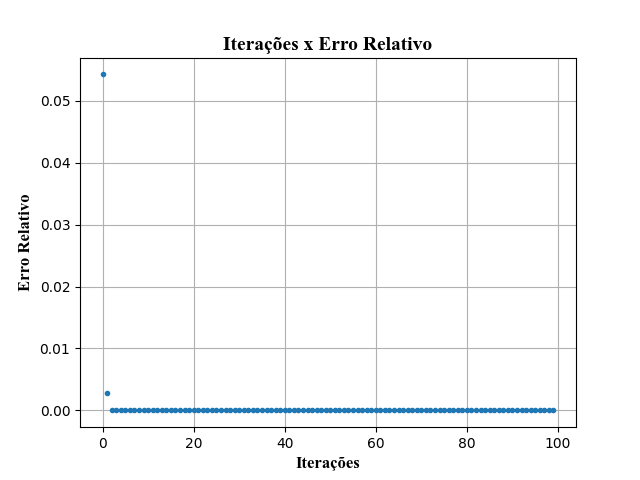
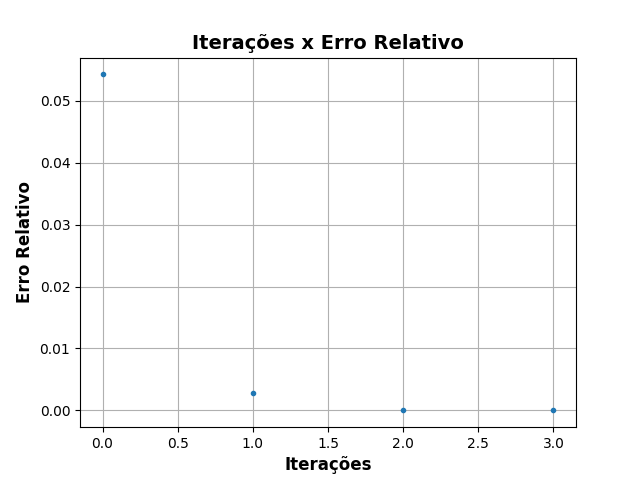
modificaçẽos

diff --git a/main.py b/main.py
@@ -26,16 +26,17 @@ def newton_raphson_system(func, jacobian, x0, tol=1e-5, max_iter=100):
 chute_inicial_func_1__duas_equacoes =  np.array([1.0, 5.0])
 # Calculando um chute inicial melhor usando least_squares
 res = least_squares(sistemas_para_resolver.func_1__tres_equacoes, np.array([1.0, 2.0, 3.0]))
-chute_inicial_func_1__tres_equacoes = res.x
+#chute_inicial_func_1__tres_equacoes = res.x
+chute_inicial_func_1__tres_equacoes = np.array([1.0, 2.0, 3.0])
 chute_inicial_func_2__duas_equacoes =  np.array([0.5,3])
 chute_inicial_func_2__tres_equacoes = np.array([0.0, 3.0, 2.0])
 
 
 # Resolvendo o sistema usando o método de Newton-Raphson
-solucao, n_iteracoes, distancias_do_zero = newton_raphson_system(sistemas_para_resolver.func_1__duas_equacoes, sistemas_para_resolver.jacobian_func1__duas_equacoes, chute_inicial_func_1__duas_equacoes, 1e-30, 100)
-solucao_2, n_iteracoes_2, distancias_do_zero_2 = newton_raphson_system(sistemas_para_resolver.func_2__duas_equacoes, sistemas_para_resolver.jacobian_func2__duas_equacoes, chute_inicial_func_2__duas_equacoes, 1e-30, 100)
-solucao_3, n_iteracoes_3, distancias_do_zero_3 = newton_raphson_system(sistemas_para_resolver.func_1__tres_equacoes, sistemas_para_resolver.jacobian_func1__tres_equacoes, chute_inicial_func_1__tres_equacoes, 1e-30, 1000)
-solucao_4, n_iteracoes_4, distancias_do_zero_4 = newton_raphson_system(sistemas_para_resolver.func_2__tres_equacoes, sistemas_para_resolver.jacobian_func2__tres_equacoes, chute_inicial_func_2__tres_equacoes, 1e-30, 1000)
+solucao, n_iteracoes, distancias_do_zero = newton_raphson_system(sistemas_para_resolver.func_1__duas_equacoes, sistemas_para_resolver.jacobian_func1__duas_equacoes, chute_inicial_func_1__duas_equacoes, 1e-7, 100)
+solucao_2, n_iteracoes_2, distancias_do_zero_2 = newton_raphson_system(sistemas_para_resolver.func_2__duas_equacoes, sistemas_para_resolver.jacobian_func2__duas_equacoes, chute_inicial_func_2__duas_equacoes, 1e-7, 100)
+solucao_3, n_iteracoes_3, distancias_do_zero_3 = newton_raphson_system(sistemas_para_resolver.func_1__tres_equacoes, sistemas_para_resolver.jacobian_func1__tres_equacoes, chute_inicial_func_1__tres_equacoes, 1e-7, 1000)
+solucao_4, n_iteracoes_4, distancias_do_zero_4 = newton_raphson_system(sistemas_para_resolver.func_2__tres_equacoes, sistemas_para_resolver.jacobian_func2__tres_equacoes, chute_inicial_func_2__tres_equacoes, 1e-7, 1000)
 
 # Print das soluções
 print(solucao)
@@ -50,7 +51,7 @@ print()
 print(solucao_4)
 print(sistemas_para_resolver.func_2__tres_equacoes(solucao_4))
 
-#plota_graficos.plota_grafico_parte1(n_iteracoes, distancias_do_zero,"Grafico_Sistema_1_Duas_Equacoes")
+plota_graficos.plota_grafico_parte1(n_iteracoes, distancias_do_zero,"Grafico_Sistema_1_Duas_Equacoes")
 #plota_graficos.plota_grafico_parte1(n_iteracoes_2, distancias_do_zero_2,"Grafico_Sistema_2_Duas_Equacoes")
 plota_graficos.plota_grafico_parte1(n_iteracoes_3, distancias_do_zero_3,"Grafico_Sistema_1_Tres_Equacoes")
 #plota_graficos.plota_grafico_parte1(n_iteracoes_4, distancias_do_zero_4,"Grafico_Sistema_2_Tres_Equacoes")

diff --git a/sistemas_para_resolver.py b/sistemas_para_resolver.py
@@ -37,9 +37,9 @@ def jacobian_func1__duas_equacoes(x):
 
 def jacobian_func1__tres_equacoes(x):
     return np.array([
-        [1, 1, 1],
-        [x[1] + x[2], x[0] + x[2], x[0] + x[1]],
-        [x[1]*x[2], x[0]*x[2], x[0]*x[1]]
+        [2* x[0], 2 * x[1], 2 * x[2]],
+        [x[1] * x[2], x[0] * x[2], x[0] * x[1]],
+        [1, 1, -2 * x[2]]
     ])
 
 def jacobian_func2__duas_equacoes(x):
